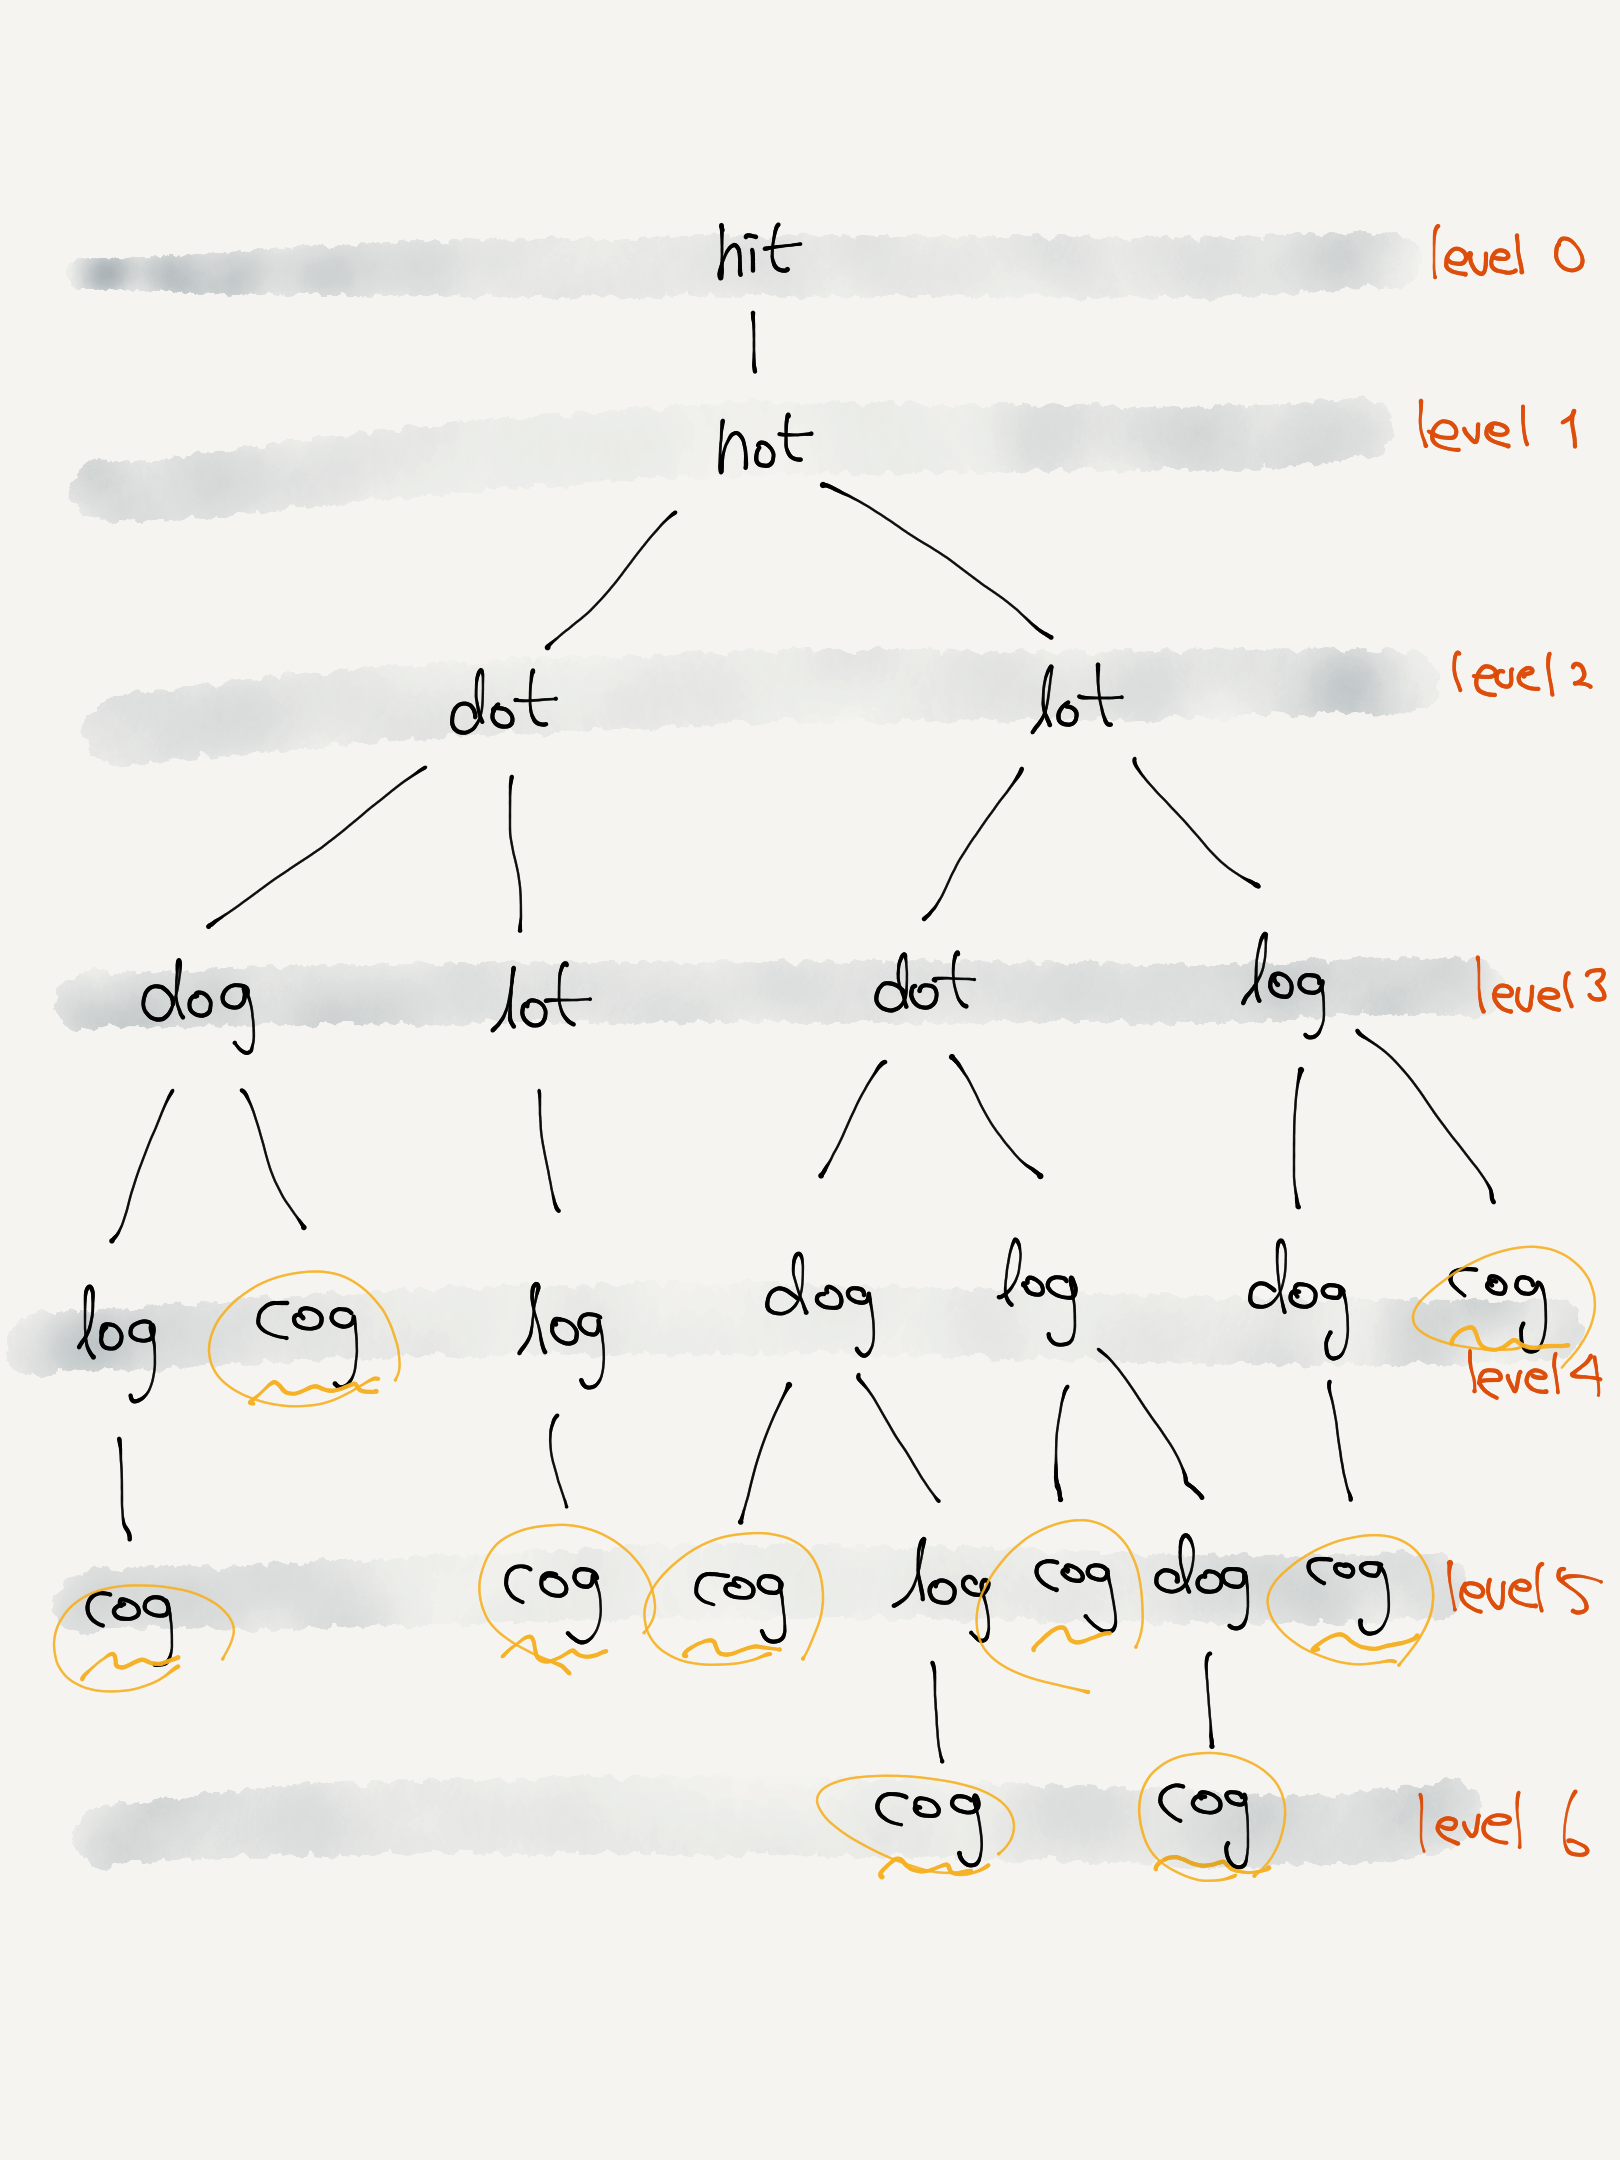
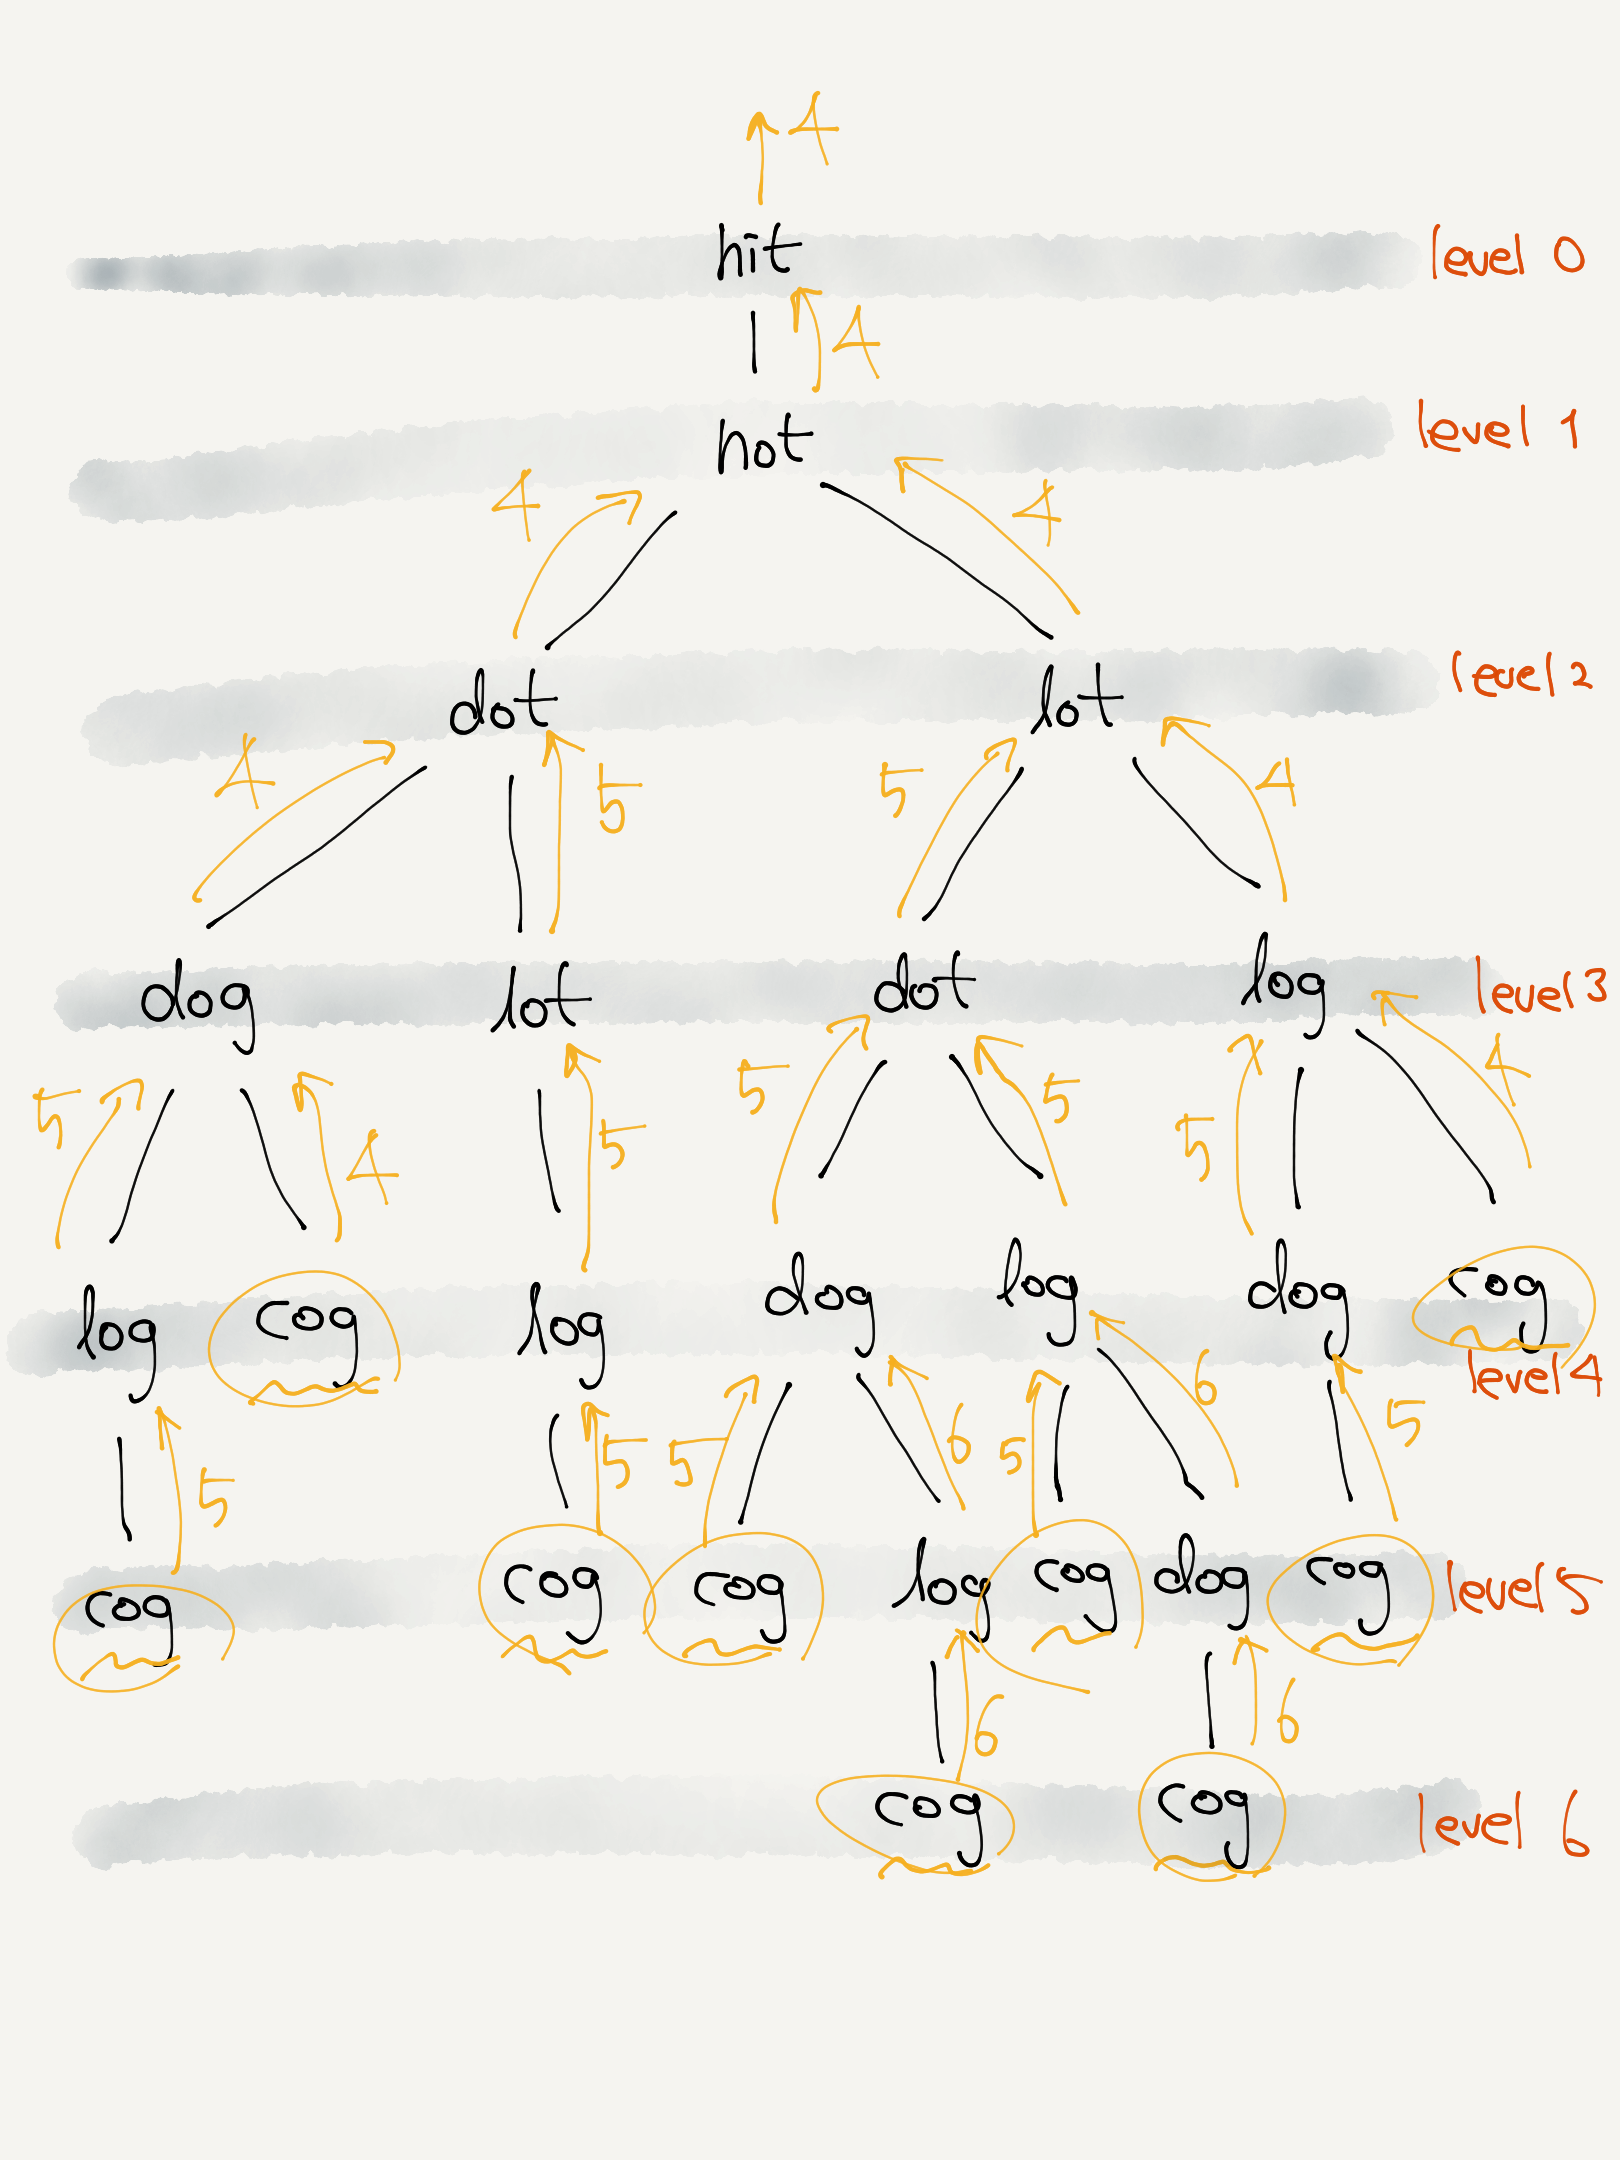
글 수정

diff --git a/_posts/2021-04-20-programmers-43163.md b/_posts/2021-04-20-programmers-43163.md
@@ -5,7 +5,7 @@ tags: [algorithm]
 comments: true
 ---
 
-출처: [https://programmers.co.kr/learn/courses/30/lessons/43163](https://programmers.co.kr/learn/courses/30/lessons/43163)
+문제 출처: [https://programmers.co.kr/learn/courses/30/lessons/43163](https://programmers.co.kr/learn/courses/30/lessons/43163)
 
 
 ### 문제 설명
@@ -56,32 +56,23 @@ target인 "cog"는 words 안에 없기 때문에 변환할 수 없습니다.
 
 ## 처음 문제 풀이 (DFS)
 
-입출력 예1의 탐색 과정을 아래 그림처럼 표현할 수 있다. 발견된 target 중 가장 낮은 레벨은 4이다.
+처음에는 `begin`부터 시작해 주어진 단어에 대해서 문자 하나만 차이 나는 단어(이하 후보 단어)를 `words`에서 탐색한다.
+입출력 예1처럼 `begin = "hit"`, `target="cog"`, `words=["hot", "dot", "dog", "lot", "log", "cog"]`인 경우,
+"hit"에서 변경할 수 있는 단어는 "hot"이 유일하다.
+
+그리고 이 "hot"의 후보 단어는 "dot", "lot"이 있다. 후보 단어의 조건을 따지면 아래와 같다.
+
+- 이전 단어와 비교해 문자 하나만 변경되어야 함.
+- 이전에 본 적 없는 단어여야 함.
+
+이런 식으로 후보 단어를 더 이상 찾을 수 없을 때까지 탐색하기 위해서 재귀 함수를 사용할 수 있다.
+이를 그림으로 표현하면 아래와 같다.
+그림에서 주황색으로 숫자가 거슬러 올라가는 모습은 `target`의 레벨을 반환하는 것을 표현한다.
+여러 레벨에 존재하는 부모 노드들은 여러 자식 노드의 반환값을 받고 그 중 더 작은 것을 골라 반환해야 한다.
+리턴값은 탐색된 `target`의 레벨을 나타내며 문제에서 구하고자 하는 것은 `target`의 최소 레벨이기 때문이다.
 
 <img src="/assets/images/2021-04-20-programmers-43163/1.png" width="500px">
 
-- `begin`으로 주어진 노드부터 시작해서 알파벳 하나만 차이 나는 노드(이하 후보 노드라고 명칭)들을 탐색한다.
-
-- 입출력 예1처럼 `begin="hit"`, `target="cog"`, `words=["hot”, "dot”, "dog”, "lot”, "log”, "cog"]`로 입력이 주어진 경우, 처음에는 "hit"의 후보 노드를 탐색한다.
-
-    후보 노드의 조건을 더 자세히 따져보면 다음과 같이 정리할 수 있다.
-    - 이전 노드와 비교해 문자 하나만 변경되어야 함.
-    - 이전에 방문한 적 없는 노드여야 함.
-
-- `words`에서 후보 노드는 "hot"이 유일하다. 그러므로 "hit"에서는 "hot"으로만 변경할 수 있다.
-
-- 이제 "hot"의 후보 노드를 탐색한다. 그 후보군은 `["dot, "lot"]`이다.
-
-- 그 중 "dot"의 후보 노드 탐색 결과는 `["dog", "lot"]`이다.
-
-- 그 중 "dog"의 후보 노드 탐색 결과는 `["log", "cog"]`이다.
-
-- 후보 노드 탐색 결과에 `target`이 포함되어 있으므로, `target`의 수준을 `return` 한다.
-
-- 이 입출력 예에는 `target`이 `words`에 포함되어 있으므로 언젠가는 0이 아닌 정수가 `return` 되겠지만,
-  만약 그렇지 않은 경우 모든 노드를 탐색 후 0을 반환할 것이다.
-
-- 그리고 위에서 후보 노드에 대한 탐색 함수를 호출한 부모 노드들 입장에서는 각기 다른 반환값과 함께 리턴된 자식 노드들을 가지고 그 중 가장 작은 값을 다시 자신의 부모에게 리턴하면 된다.
 
 ```python
 from collections import Counter
@@ -101,14 +92,15 @@ def solution(begin, target, words):
         # 주어진 노드와 알파벳 하나만 차이 나는 모든 후보 노드(단어)를 가져오되,
         # 이미 방문한 적 있는 노드는 제외한다.
         visited.add(node)
-        candidates = find_candidates(node) - visited
 
-        # 종료 조건 1: 남은 후보가 없는 경우 더 이상 변환을 진행할 수 없으므로 0 리턴
+        # 종료 조건 1: 현재 노드가 target인 경우 레벨을 리턴
+        if node == target:
+            return level
+
+        # 종료 조건 2: 남은 후보가 없는 경우 더 이상 변환을 진행할 수 없으므로 0 리턴
+        candidates = find_candidates(node) - visited
         if len(candidates) == 0:
             return 0
-        # 종료 조건 2: 후보에 target이 존재하는 경우 target의 레벨을 리턴
-        elif target in candidates:
-            return level + 1
 
         # 주어진 후보에 대해서 dfs()를 호출하고 리턴 값을 저장한다.
         target_levels = []
@@ -118,7 +110,7 @@ def solution(begin, target, words):
 
         # 저장된 리턴 값 중 0이 아닌 가장 작은 값을 리턴한다.
         # 만약 값이 없다면 target을 찾지 못한 것이므로 0을 반환한다.
-        answers = [x for x in target_levels if isinstance(x, int) and x != 0]
+        answers = [x for x in target_levels if x != 0]
         return min(answers) if len(answers) > 0 else 0
 
     if target not in words:
@@ -129,16 +121,16 @@ def solution(begin, target, words):
 
 ### 아쉬운 점
 
-재귀 함수를 사용하면 그 특성 상 DFS 알고리즘의 특성을 띠게 된다. 이런 식으로 깊이 우선 탐색을 시도하면 트리에서 `target`의 최소 레벨을 구하고 비교하기 위해 모든 노드를 탐색해야 한다는 문제가 있다. 예를 들어 처음 tree 그림 예시에서 "hot" 밑에 "dot"과 "lot"이 있는데 각각 `target`이 발견되는 최소 레벨을 구하기 위해 양쪽에서 모든 노드를 구한 뒤 서로를 비교해야 한다. 이런 방식 대신 너비 우선으로 탐색하는 BFS 알고리즘을 사용한다면 위 그림에서 레벨 1씩 높여가면서 해당 레벨에 있는 모든 노드를 우선으로 탐색할 것이다. 그리고 그 레벨에서 `target`이 발견되는 즉시 현재 레벨을 반환하도록 처리하면 DFS 알고리즘에 비해 성능 면에서 훨씬 효율적일 것이다.
+재귀 함수를 사용해 풀다 보니 결국 DFS 알고리즘의 특성을 띠게 된다는 점인데 이런 식으로 깊이 우선 탐색을 시도하면 트리에서 `target`의 최소 레벨을 구하고 비교하기 위해 모든 노드를 탐색해야 한다는 문제가 있다. 예를 들어 처음 tree 그림 예시에서 "hot" 밑에 "dot"과 "lot"이 있는데 각각 `target`이 발견되는 최소 레벨을 구하기 위해 양쪽에서 모든 노드를 구한 뒤 서로를 비교해야 한다.
 
 
 ## 개선 답안 (BFS)
 
-BFS 알고리즘을 사용하면서 어려웠던 점 중 하나는 방문처리 배열(`visited`)의 관리였다.
-DFS 알고리즘에서는 깊이 우선으로 탐색하면서 방문한 노드를 방문처리 배열에 순서대로 기록하면 되었기 때문에
-방문처리 배열을 하나만 사용해도 문제가 없었다.
-그러나 DFS 알고리즘에서는 너비 우선으로 노드를 방문하기 때문에 각각의 노드의 대한 방문처리 배열을 수시로 업데이트 해야 한다는 문제가 있었다.
-그래서 노드 별로 방문처리 목록을 (`visit_history`) 만들어 관리하기 위해 `Node` 클래스를 정의하여 사용했다.
+<img src="/assets/images/2021-04-20-programmers-43163/2.png" width="500px">
+
+DFS 알고리즘 대신 너비 우선으로 탐색하는 BFS 알고리즘을 사용한다면 위 그림처럼 레벨 1씩 높여가면서 해당 레벨에 있는 모든 노드를 우선으로 탐색할 것이다.
+그리고 그 레벨에서 `target`이 발견되는 즉시 현재 레벨을 반환하도록 처리하면 DFS 알고리즘에 비해 성능 면에서 더 효율적일 것이다.
+DFS 알고리즘에서는 24개의 모든 노드를 방문해야 했던 반면, BFS 알고리즘에서는 10개의 노드만 방문하면 되기 때문이다 (물론 배열의 정렬 상태에 따르다).
 
 ```python
 from collections import Counter, deque

diff --git a/_posts/2021-04-18-programmers-43165.md b/_posts/2021-04-18-programmers-43165.md
@@ -5,7 +5,7 @@ tags: [algorithm]
 comments: true
 ---
 
-출처: [https://programmers.co.kr/learn/courses/30/lessons/43165](https://programmers.co.kr/learn/courses/30/lessons/43165)
+문제 출처: [https://programmers.co.kr/learn/courses/30/lessons/43165](https://programmers.co.kr/learn/courses/30/lessons/43165)
 
 
 ### 문제 설명

diff --git a/_posts/2021-04-19-programmers-43162.md b/_posts/2021-04-19-programmers-43162.md
@@ -5,7 +5,7 @@ tags: [algorithm]
 comments: true
 ---
 
-출처: [https://programmers.co.kr/learn/courses/30/lessons/43162](https://programmers.co.kr/learn/courses/30/lessons/43162)
+문제 출처: [https://programmers.co.kr/learn/courses/30/lessons/43162](https://programmers.co.kr/learn/courses/30/lessons/43162)
 
 
 ### 문제 설명
